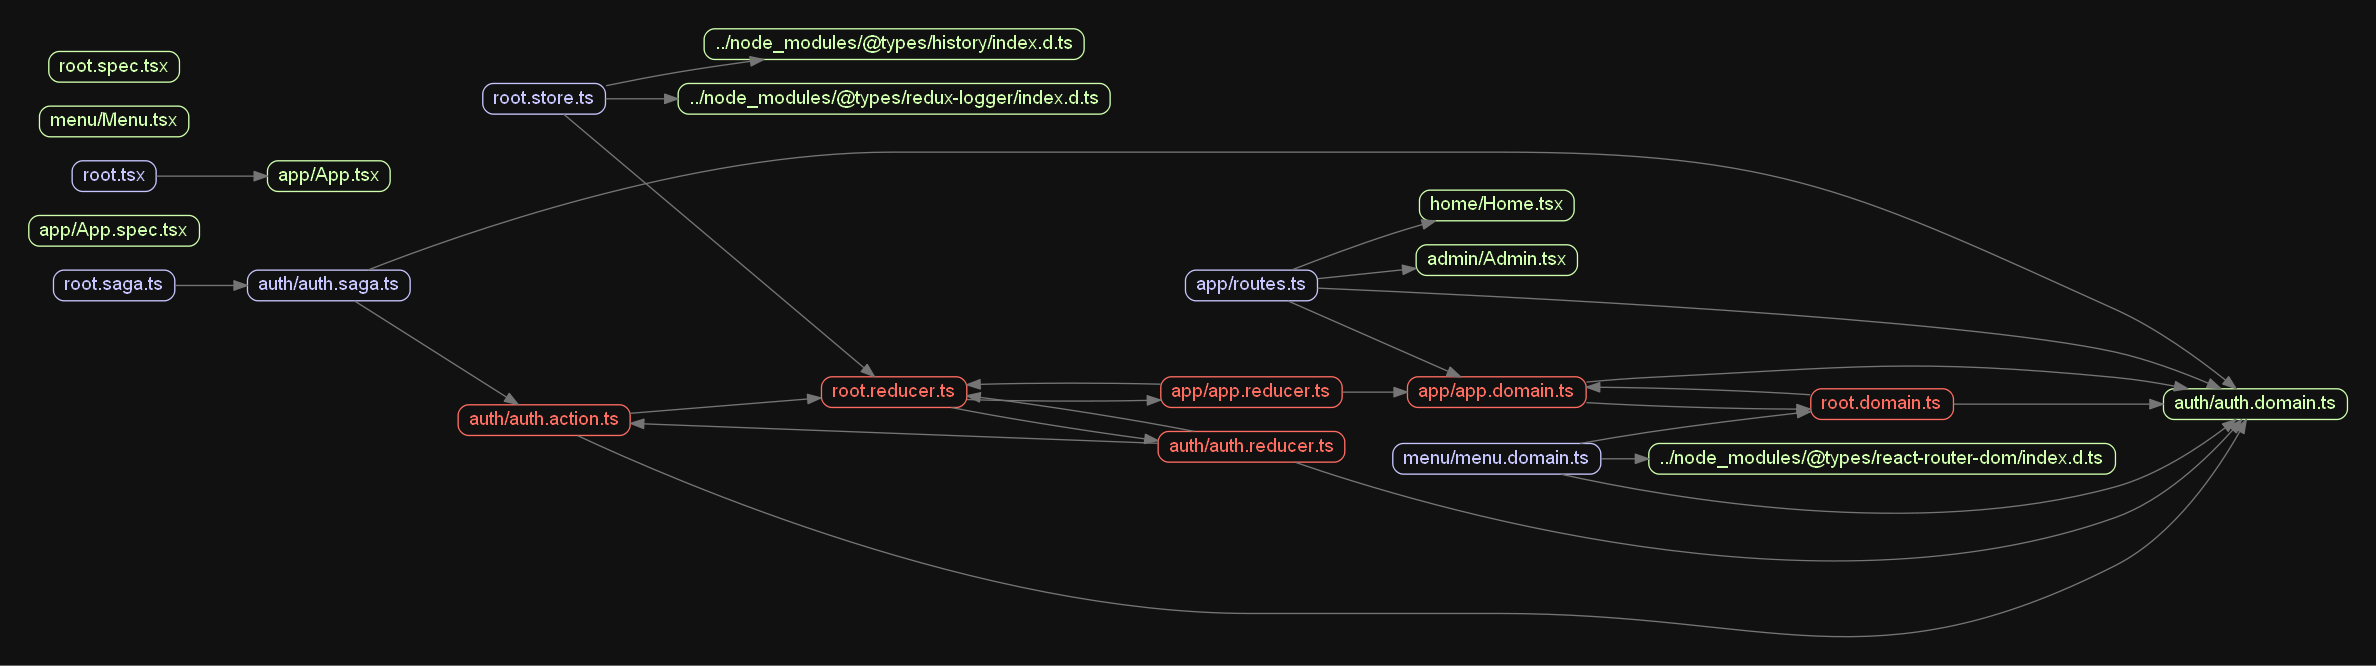
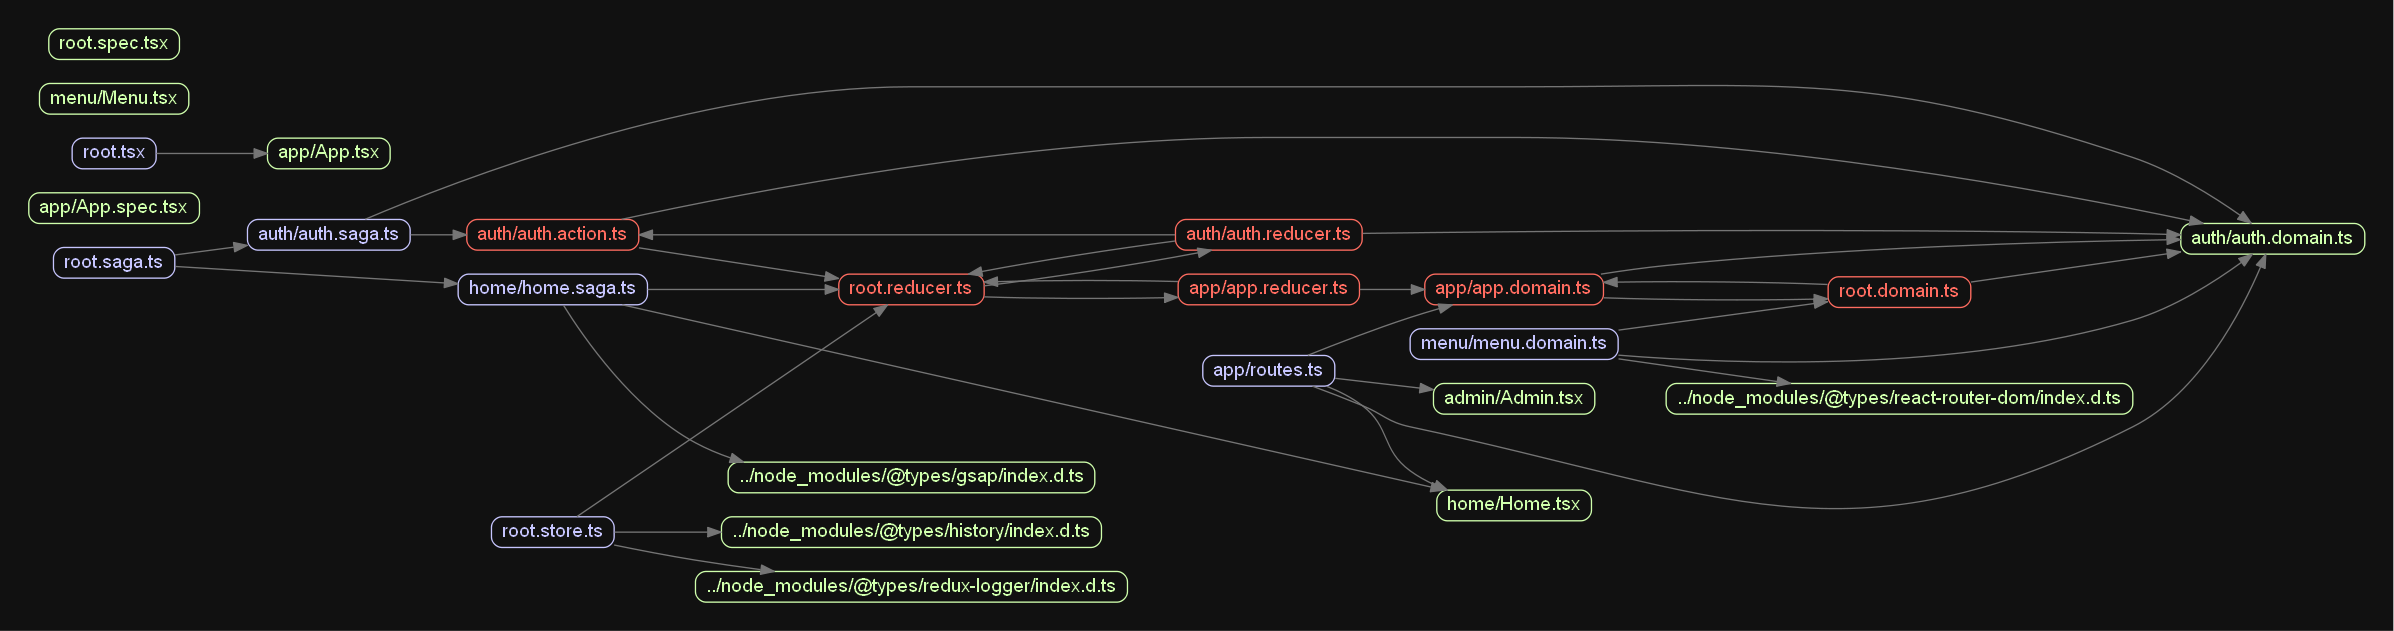
Added first animation using gsap and saga

diff --git a/src/home/home.saga.ts b/src/home/home.saga.ts
@@ -1,0 +1,36 @@
+import { TweenLite } from "gsap";
+import { delay } from "redux-saga";
+import { all, put, takeLatest } from "redux-saga/effects";
+import { IAction } from "../root.reducer";
+import Home from "./Home";
+
+const INTRO_TIME_MS = 3000.0;
+
+function* animateIntro(homeComponent: HTMLDivElement) {
+    TweenLite.fromTo(homeComponent, INTRO_TIME_MS / 1000, {backgroundColor: "black"}, {backgroundColor: "white"});
+    yield delay(INTRO_TIME_MS);
+    yield put({
+        payload: {},
+        type: ACTION_TYPES.START_ANIMATION_SUCCESS,
+    });
+}
+
+export const ACTION_TYPES = {
+    START_ANIMATION_REQUEST: "@HOME.START_ANIMATION_REQUEST",
+    START_ANIMATION_SUCCESS: "@HOME.START_ANIMATION_SUCCESS",
+};
+
+export interface IAnimationStartRequest extends IAction {
+    payload: HTMLDivElement;
+}
+
+export function* animationSaga() {
+    yield takeLatest(ACTION_TYPES.START_ANIMATION_REQUEST, (action: IAnimationStartRequest) => {
+        return animateIntro(action.payload);
+    });
+}
+
+// todo: make default export
+export function* rootSaga() {
+    yield all([animationSaga()]);
+}

diff --git a/src/home/Home.tsx b/src/home/Home.tsx
@@ -1,7 +1,32 @@
 import * as React from "react";
+import { connect } from "react-redux";
+import { IBaseProps, IRootState } from "../root.domain";
+import { ACTION_TYPES } from "./home.saga";
 
-export default class Home extends React.Component<{}> {
+export class Home extends React.Component<IBaseProps> {
+  private ref: React.RefObject<HTMLDivElement>;
+
+  constructor(props: IBaseProps) {
+    super(props);
+    this.ref = React.createRef();
+  }
+
+  public componentDidMount() {
+    this.props.dispatch({
+      payload: this.ref.current,
+      type: ACTION_TYPES.START_ANIMATION_REQUEST,
+    });
+  }
+
   public render() {
-    return <h1>hi</h1>;
+    return <div ref={this.ref}>hi</div>;
   }
 }
+
+function mapStateToProps(state: IRootState): IBaseProps {
+  return {
+  };
+}
+
+const connectedComponent = connect(mapStateToProps)(Home);
+export default connectedComponent;

diff --git a/src/root.saga.ts b/src/root.saga.ts
@@ -1,9 +1,10 @@
 import { all } from "redux-saga/effects";
-import { rootSaga as loginSaga } from "./auth/auth.saga";
+import { rootSaga as authSaga } from "./auth/auth.saga";
+import { rootSaga as homeSaga } from "./home/home.saga";
 
 /**
  * Root of the saga tree
  */
 export default function* rootSaga() {
-  yield all([loginSaga()]);
+  yield all([authSaga(), homeSaga()]);
 }

diff --git a/src/app/App.tsx b/src/app/App.tsx
@@ -64,6 +64,10 @@ export class App extends React.Component<IProps> {
       </div>
     );
   }
+
+  private createRouteComponent(component: React.ComponentClass, props: any) {
+    return React.createElement(component, {...props, dispatch: this.props.dispatch});
+  }
 }
 
 function firstChild(props: any) {
